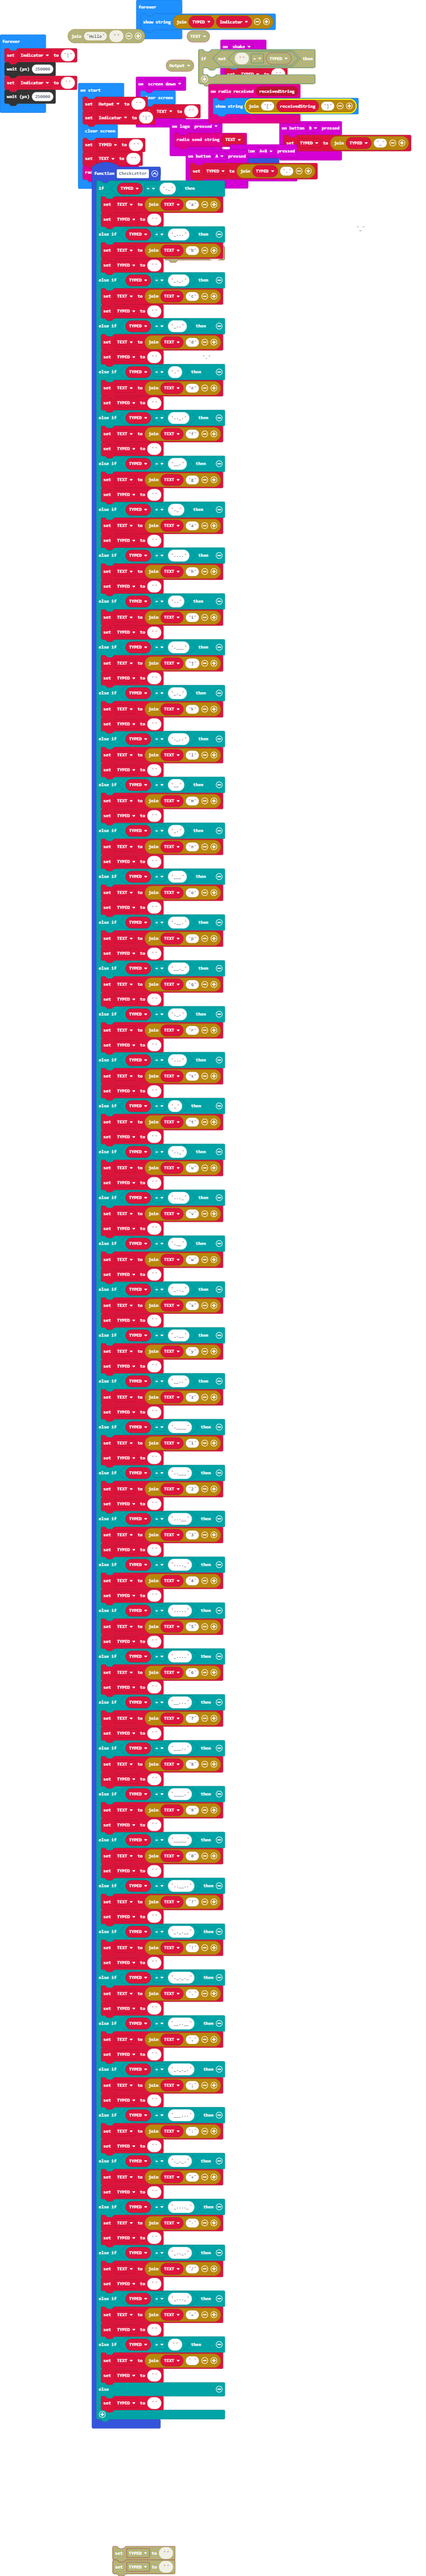
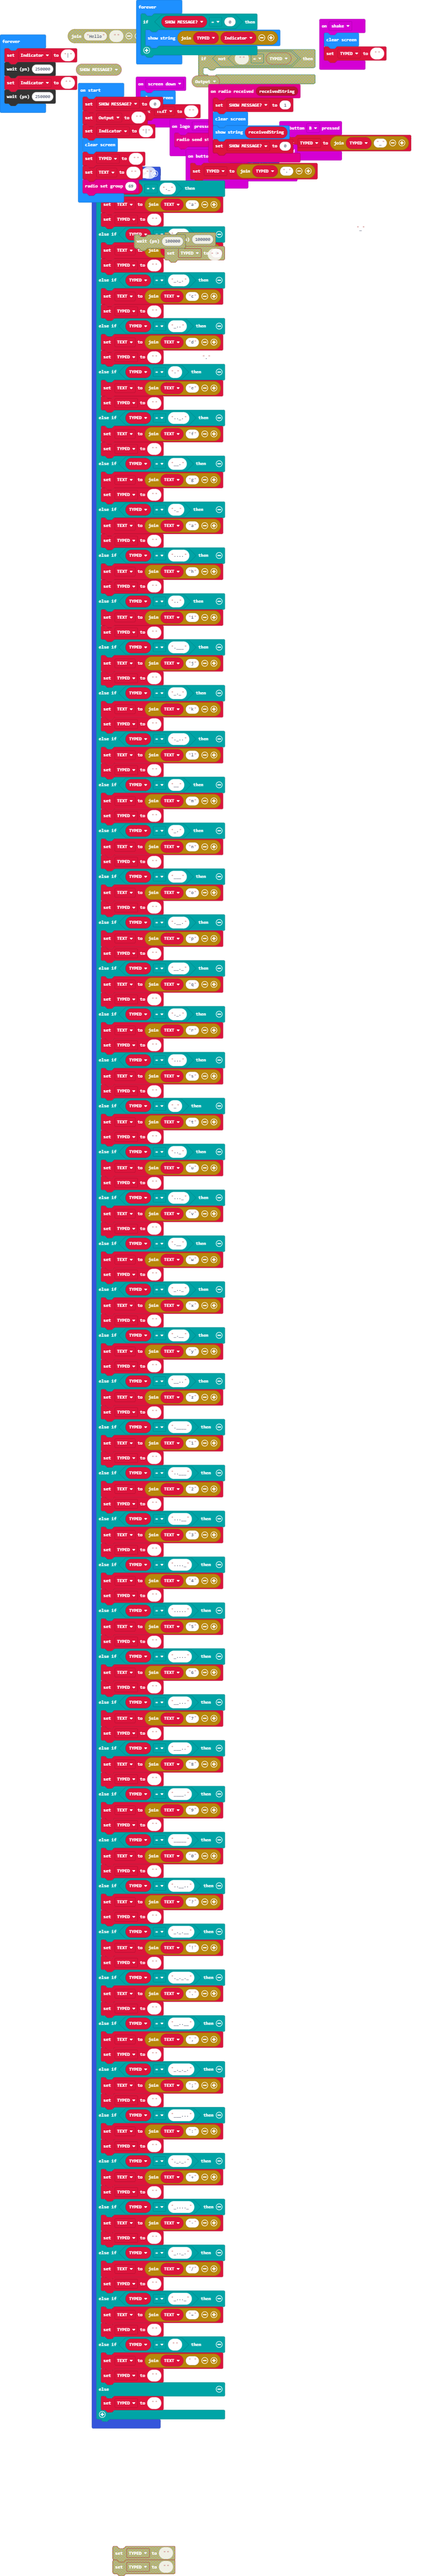
Update main.blocks, main.ts

Changed region(s): [[0.1855, 0.0, 0.8656, 0.1247]]

diff --git a/main.ts b/main.ts
@@ -158,7 +158,10 @@ input.onButtonPressed(Button.AB, function () {
     CheckLetter()
 })
 radio.onReceivedString(function (receivedString) {
-    basic.showString("[" + receivedString + "]")
+    SHOW_MESSAGE = 1
+    basic.clearScreen()
+    basic.showString(receivedString)
+    SHOW_MESSAGE = 0
 })
 input.onButtonPressed(Button.B, function () {
     TYPED = "" + TYPED + "_"
@@ -172,6 +175,8 @@ input.onLogoEvent(TouchButtonEvent.Pressed, function () {
 })
 let TEXT = ""
 let TYPED = ""
+let SHOW_MESSAGE = 0
+SHOW_MESSAGE = 0
 let Output = ""
 let Indicator = "|"
 basic.clearScreen()
@@ -179,7 +184,9 @@ TYPED = ""
 TEXT = ""
 radio.setGroup(69)
 basic.forever(function () {
-    basic.showString("" + TYPED + Indicator)
+    if (SHOW_MESSAGE == 0) {
+        basic.showString("" + TYPED + Indicator)
+    }
 })
 basic.forever(function () {
     Indicator = "|"
